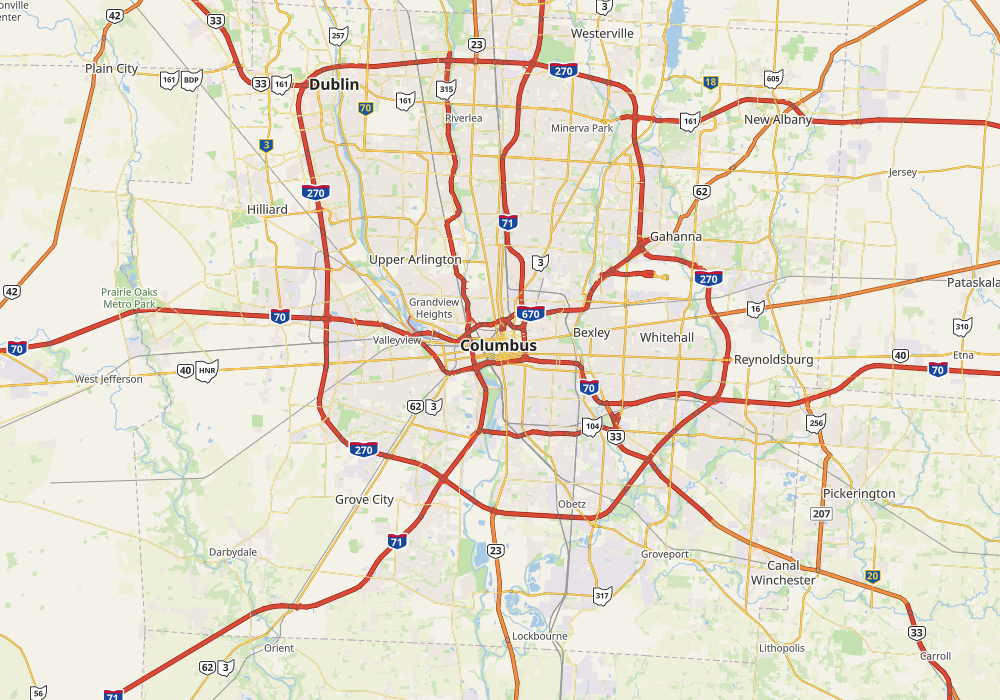
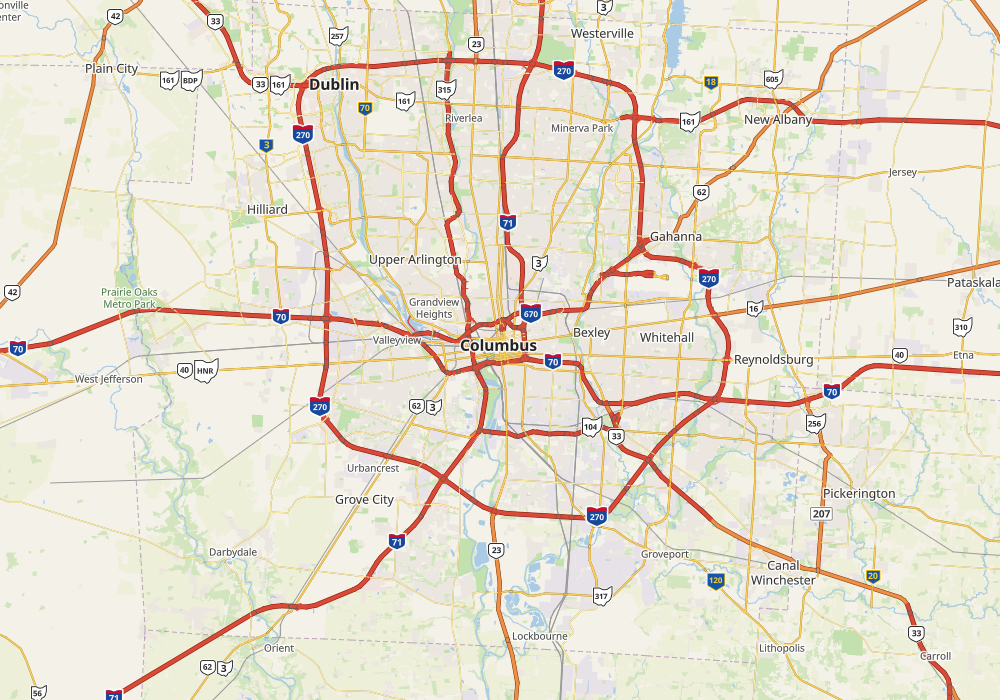
Shields keep their shape for long numbers; Ohio's number off centre
Every design with a distinctive outline now keeps its proportions: a
number too wide is set up to a fifth smaller, then the whole shield grows
in both directions. Boxes and ovals still stretch sideways. Ohio's number
sits towards the wider south-west of the outline.

diff --git a/crates/app/src/shapes.rs b/crates/app/src/shapes.rs
@@ -79,14 +79,15 @@ struct Design {
     /// A band across the top, and its bottom as a share of the height.
     band: Option<(Rgba, f32)>,
     text: Rgba,
-    /// The middle of the text, as a share of the height from the top.
+    /// The middle of the text, as shares of the width and of the height from the top.
+    text_x: f32,
     text_y: f32,
     /// The number's size, as a share of the shield's em.
     text_size: f32,
     /// Text too wide for `min_width` is set smaller, down to this share of `text_size`.
     shrink: f32,
-    /// Wider than `min_width`, the outline grows in height too, keeping its shape (Ohio's
-    /// outline looks wrong stretched).
+    /// Wider than `min_width`, the outline grows in height too, keeping its shape: true for
+    /// every design but those that look right stretched (boxes and ovals).
     keep_aspect: bool,
 }
 
@@ -107,17 +108,27 @@ const PLAIN: Design = Design {
     body: WHITE,
     band: None,
     text: BLACK,
+    text_x: 0.5,
     text_y: 0.5,
     text_size: 1.0,
     shrink: 1.0,
     keep_aspect: false,
 };
 
+/// Shields that keep their shape: a long number is set up to a fifth smaller, then the
+/// whole shield grows.
+const SHAPED: Design = Design {
+    shrink: 0.8,
+    keep_aspect: true,
+    ..PLAIN
+};
+
 impl Design {
     /// The height for a width, in ems.
     fn height(&self, w: f32) -> f32 {
         match self.keep_aspect {
-            true => self.height * (w / self.min_width).max(1.0),
+            // From the narrowest width a plate can have, in whole eighths.
+            true => self.height * (w / ((self.min_width * 8.0).ceil() / 8.0)).max(1.0),
             false => self.height,
         }
     }
@@ -136,7 +147,7 @@ fn design(s: Shield) -> Design {
             band: Some((RED, 0.24)),
             text: WHITE,
             text_y: 0.53,
-            ..PLAIN
+            ..SHAPED
         },
         Shield::InterstateBusiness => Design {
             outline: interstate,
@@ -147,7 +158,7 @@ fn design(s: Shield) -> Design {
             body: GREEN,
             text: WHITE,
             text_y: 0.5,
-            ..PLAIN
+            ..SHAPED
         },
         Shield::UsRoute => Design {
             outline: us_route,
@@ -155,7 +166,7 @@ fn design(s: Shield) -> Design {
             min_width: 1.5,
             pad: 0.3,
             text_y: 0.44,
-            ..PLAIN
+            ..SHAPED
         },
         Shield::Circle => Design {
             outline: ellipse,
@@ -174,7 +185,7 @@ fn design(s: Shield) -> Design {
             pad: 0.1,
             text_size: 0.8,
             shrink: 0.75,
-            ..PLAIN
+            ..SHAPED
         },
         Shield::Keystone => Design {
             outline: keystone,
@@ -182,7 +193,7 @@ fn design(s: Shield) -> Design {
             min_width: 1.6,
             pad: 0.35,
             text_y: 0.48,
-            ..PLAIN
+            ..SHAPED
         },
         Shield::Spade => Design {
             outline: spade,
@@ -193,7 +204,7 @@ fn design(s: Shield) -> Design {
             body: GREEN,
             text: WHITE,
             text_y: 0.4,
-            ..PLAIN
+            ..SHAPED
         },
         Shield::Ohio => Design {
             outline: ohio,
@@ -201,10 +212,11 @@ fn design(s: Shield) -> Design {
             min_width: 1.5,
             stretch: 1.1,
             pad: 0.25,
-            text_y: 0.47,
+            // Off centre, towards the wide south-west.
+            text_x: 0.43,
+            text_y: 0.5,
             shrink: 0.75,
-            keep_aspect: true,
-            ..PLAIN
+            ..SHAPED
         },
         Shield::County => Design {
             outline: pentagon,
@@ -215,7 +227,7 @@ fn design(s: Shield) -> Design {
             body: [22, 84, 168, 255],
             text: [255, 214, 51, 255],
             text_y: 0.4,
-            ..PLAIN
+            ..SHAPED
         },
         Shield::TransCanada => Design {
             outline: heater,
@@ -226,7 +238,7 @@ fn design(s: Shield) -> Design {
             body: GREEN,
             text: WHITE,
             text_y: 0.42,
-            ..PLAIN
+            ..SHAPED
         },
         Shield::Ontario => Design {
             outline: crowned,
@@ -234,7 +246,7 @@ fn design(s: Shield) -> Design {
             min_width: 1.55,
             pad: 0.28,
             text_y: 0.54,
-            ..PLAIN
+            ..SHAPED
         },
         Shield::QuebecAutoroute => Design {
             outline: heater,
@@ -246,7 +258,7 @@ fn design(s: Shield) -> Design {
             band: Some((RED, 0.22)),
             text: WHITE,
             text_y: 0.5,
-            ..PLAIN
+            ..SHAPED
         },
         Shield::QuebecRoute => Design {
             outline: arched,
@@ -262,7 +274,7 @@ fn design(s: Shield) -> Design {
             min_width: 1.5,
             pad: 0.28,
             text_y: 0.43,
-            ..PLAIN
+            ..SHAPED
         },
         Shield::Generic => Design {
             height: 1.35,
@@ -308,10 +320,11 @@ impl Plate {
         })
     }
 
-    /// The text's colour, and where its middle is from the top, in ems.
-    pub fn text_at(&self) -> (Rgba, f32) {
+    /// The text's colour, and where its middle is from the top-left corner, in ems.
+    pub fn text_at(&self) -> (Rgba, [f32; 2]) {
         let d = design(self.shield);
-        (d.text, d.text_y * self.size()[1])
+        let [w, h] = self.size();
+        (d.text, [d.text_x * w, d.text_y * h])
     }
 
     /// Heap and inline bytes, for the tile cache.
@@ -368,7 +381,7 @@ fn fits(d: &Design, w: f32, tw: f32, scale: f32) -> bool {
     (d.outline)(&mut pen, w, h);
     pen.close();
     let th = 2.0 * text::MID_CAP * scale;
-    let (x0, x1) = ((w - tw) / 2.0, (w + tw) / 2.0);
+    let (x0, x1) = (d.text_x * w - tw / 2.0, d.text_x * w + tw / 2.0);
     let (y0, y1) = (d.text_y * h - th / 2.0, d.text_y * h + th / 2.0);
     let (xm, ym) = ((x0 + x1) / 2.0, (y0 + y1) / 2.0);
     [
@@ -887,11 +900,11 @@ mod tests {
             for number in ["5", "75", "275"] {
                 let p = plate(s, number).unwrap();
                 let [w, _] = p.size();
-                let (_, mid) = p.text_at();
+                let (_, [cx, cy]) = p.text_at();
                 let (tw, th) = (p.text.width * p.text_scale, cap * p.text_scale);
                 let body = sdf(p.layers().nth(1).unwrap().0).unwrap();
-                let (x0, x1) = ((w - tw) / 2.0 - margin, (w + tw) / 2.0 + margin);
-                let (y0, y1) = (mid - th / 2.0 - margin, mid + th / 2.0 + margin);
+                let (x0, x1) = (cx - tw / 2.0 - margin, cx + tw / 2.0 + margin);
+                let (y0, y1) = (cy - th / 2.0 - margin, cy + th / 2.0 + margin);
                 for (x, y) in [(x0, y0), (x1, y0), (x0, y1), (x1, y1)] {
                     if value(&body, x, y) <= INSIDE {
                         bad.push(format!("{s:?} {number}: ({x:.2}, {y:.2}) in {w:.2} wide"));
@@ -953,7 +966,13 @@ mod tests {
         let one = plate(Shield::Interstate, "5").unwrap();
         let three = plate(Shield::Interstate, "275").unwrap();
         assert_eq!(one.size(), [1.75, 1.7]);
-        assert!(three.size()[0] > one.size()[0] + 0.5);
+        // Three digits: smaller, in a larger shield of the same shape.
+        let ([w1, h1], [w3, h3]) = (one.size(), three.size());
+        assert!(
+            w3 > w1 && h3 > h1 && (w3 / h3 - w1 / h1).abs() < 0.05,
+            "{w3}×{h3}"
+        );
+        assert!(three.text_scale < one.text_scale);
         // Border, body and the red band, in their colours.
         let layers: Vec<_> = three.layers().collect();
         assert_eq!(

diff --git a/crates/app/src/labels.rs b/crates/app/src/labels.rs
@@ -847,10 +847,10 @@ fn shield_layout(
                 },
             });
         }
-        let (color, mid) = p.text_at();
+        let (color, [cx, cy]) = p.text_at();
         let ts = p.text_scale * size;
-        let x = (left + (pw - p.text.width * ts) / 2.0).round();
-        let baseline = top + mid * size + MID_CAP * ts;
+        let x = (left + cx * size - p.text.width * ts / 2.0).round();
+        let baseline = top + cy * size + MID_CAP * ts;
         for g in &p.text.glyphs {
             pens.push(Pen {
                 at: [x + g.x * ts, baseline + g.y * ts],

diff --git a/docs/phase1-plan.md b/docs/phase1-plan.md
@@ -448,7 +448,7 @@ The roadmap's main renderer risk (§7). Latin script only, which covers English,
 > **Done 2026-10-25** (the commit that adds `crates/app/src/shapes.rs`).
 > **Drawn as distance fields, not `lyon` meshes** (decision 17): each shield is two or three layers (its outline in the border colour, the same outline moved 0.09 em in for the body, and for some designs a band across the top, clipped from that outline), and each icon two (a disc and the pictogram). They are rasterised once from vector outlines into the glyph atlas and drawn by the label pipeline, so they are antialiased, get a white halo, and share the labels' collision, hysteresis and fade-in, with no second pipeline. Shields are made at 16 atlas pixels per em, about 1.6 times their size on screen (glyphs and icons at 32): in a dense 1920×1080 view (Newark z11, 192 shields) the 1024² atlas is 35% full, against 57% at 32. Sprites carry their own resolution, so this needs no shader change.
 > **Shield table** (`omp_core::routes::shield`, shared with the builder): `US:I` Interstate (blue and red), `US:I:*` business routes (green Interstate), `US:US*` US route, US states as a box, circle (NJ, KS, NM, `US:VA:Secondary`), diamond (NC, MI), keystone (PA), spade (CA) or Ohio's outline (OH, from the state border); `US:<st>:<county code>`, `…:CR`, `CR` and Ontario's regional and county networks the blue county pentagon; `CA:transcanada` green; `CA:ON`/`CA:ON:primary` the crowned King's Highway shield; `CA:QC:A` blue and red autoroute; other `CA:QC` an arched route marker; other provinces a box; `MX:MX`/`MX:MEX` Mexico's federal shield; Mexican states a box; anything else, and refs without a network, a generic grey-bordered box. A width follows the number's in eighths of an em, so a design is made in a few widths only (Noto's digits are tabular). Numbers over 3.2 em get no shield.
-> **Shield sizes** (fixed 2026-10-25 after the owner tried the app: Interstate numbers ran into the shield's point, and Ohio's outline stretched sideways for three digits): each shield now widens, in eighths of an em, until its number's box is at least 0.1 em inside the border, checked against the outline as drawn (`shapes::fits`), and the pointed designs keep straight sides lower with their numbers higher. Ohio's outline keeps its proportions: a number too wide is set smaller (to 75%), then the whole outline grows. The diamond's numbers are set at 80%. A test checks 1-, 2- and 3-digit numbers inside every design's body; widths for 3 digits are now 2.25–2.9 em (diamond 2.1, Ohio 2.0 × 2.1).
+> **Shield sizes** (fixed 2026-10-25 after the owner tried the app: Interstate numbers ran into the shield's point, and Ohio's outline stretched sideways for three digits): each shield now widens, in eighths of an em, until its number's box is at least 0.1 em inside the border, checked against the outline as drawn (`shapes::fits`), and the pointed designs keep straight sides lower with their numbers higher. Then, on the owner's second look (three-digit Interstates were too wide), every design with a distinctive outline keeps its proportions: a number too wide is set smaller (to 80%, Ohio 75%), then the whole shield grows in both directions. Only the box, the oval, Quebec's arched box and the generic box stretch sideways. Three-digit shields are now about 2.0–2.1 em square-ish instead of 2.9 × 1.7. Ohio's number sits towards the wider south-west of the outline (43% across, 50% down: the spot with the most room around it). The diamond's numbers are set at 80%. A test checks 1-, 2- and 3-digit numbers inside every design's body.
 > **Placement** (`labels.rs`): a road's `routes` become up to three shields side by side, most important first, with generic ones left out next to real ones. They are placed upright, centred on anchors along the road, between the name label's anchors, at least 250 points apart for the same routes, and ranked within their priority by the first route's network priority. Roads are cut into short pieces at every bridge and tunnel, so a piece too short for any anchor now gets one in its middle; this also applies to road and river names (1.7 had left many motorway pieces bare).
 > **Icons:** Maki 8.2.0 (CC0, `crates/app/data/icons/`, 11 SVGs; `rest_area` uses `picnic-site`), parsed by a small SVG path reader (M L H V C S Q T Z). The icon replaces 1.7's bullet: a disc 1.6 ems of the label across, in the style's colour, with a white pictogram; the name goes beside it as before.
 > **Style:** `icon_color` next to `icon` (the icon name is checked against the bundled set), and `shields = { size, priority, minzoom, maxzoom }` instead of `shields = true`. Shields: motorways from z5 (priority 76), trunk from z7 (66), primary from z9 (58), secondary from z11 (45). The F3 overlay and `--render` show shields placed and how full the atlas is.
